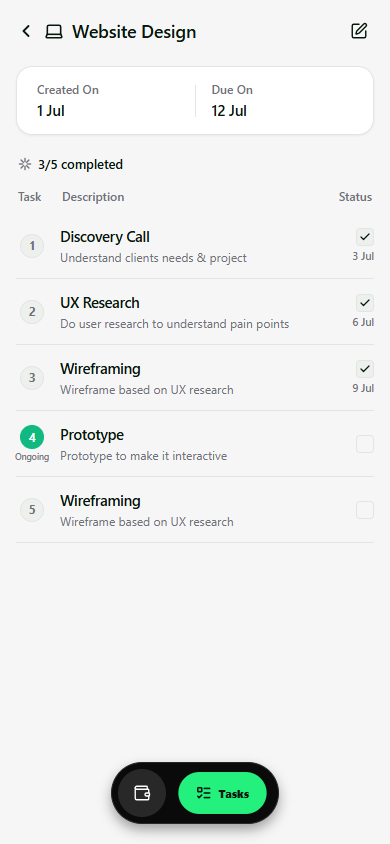
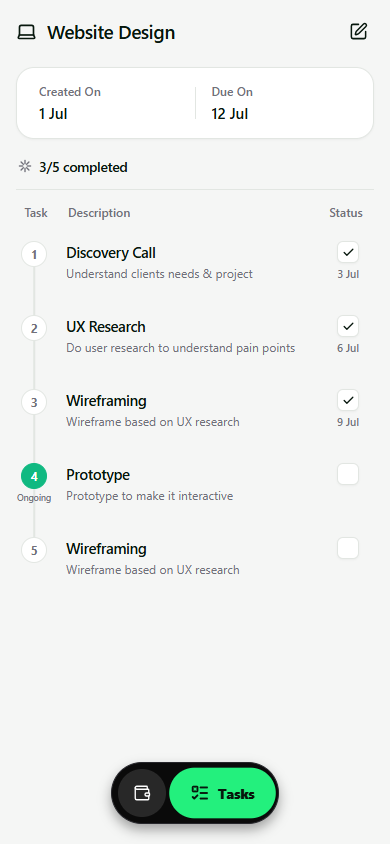
fix(mobile): match section 4 project detail view to mockup with vertical timeline and clean layout

diff --git a/mobile/src/screens/TaskManagerScreen.tsx b/mobile/src/screens/TaskManagerScreen.tsx
@@ -265,15 +265,14 @@ export const TaskManagerScreen: React.FC<TaskManagerScreenProps> = ({
         contentContainerStyle={styles.contentContainer}
         showsVerticalScrollIndicator={false}
       >
-        {/* Detail Top Bar: Back / Laptop icon + "Website Design" & Edit Icon */}
+        {/* Detail Top Bar: [Laptop] "Website Design" & Edit Icon */}
         <View style={styles.detailHeaderRow}>
           <TouchableOpacity
             activeOpacity={0.7}
             onPress={() => setCurrentView('overview')}
             style={styles.detailHeaderTitleGroup}
           >
-            <ChevronLeft size={20} color={theme.textMain} strokeWidth={2.2} />
-            <Laptop size={20} color={theme.textMain} strokeWidth={1.9} />
+            <Laptop size={21} color={theme.textMain} strokeWidth={1.9} />
             <Text style={[styles.detailHeaderTitleText, { color: theme.textMain }]}>
               Website Design
             </Text>
@@ -283,7 +282,7 @@ export const TaskManagerScreen: React.FC<TaskManagerScreenProps> = ({
             activeOpacity={0.7}
             style={styles.detailEditButton}
           >
-            <SquarePen size={18} color={theme.textMain} strokeWidth={1.9} />
+            <SquarePen size={19} color={theme.textMain} strokeWidth={1.9} />
           </TouchableOpacity>
         </View>
 
@@ -318,26 +317,49 @@ export const TaskManagerScreen: React.FC<TaskManagerScreenProps> = ({
           </Text>
         </View>
 
+        {/* Full-width Divider Line between status summary and table */}
+        <View style={[styles.detailSectionDivider, { backgroundColor: theme.borderSubtle }]} />
+
         {/* Tasks Table Header: Task | Description | Status */}
         <View style={styles.tableHeaderRow}>
-          <Text style={[styles.tableColTaskHeader, { color: theme.textDim }]}>Task</Text>
-          <Text style={[styles.tableColDescHeader, { color: theme.textDim }]}>Description</Text>
-          <Text style={[styles.tableColStatusHeader, { color: theme.textDim }]}>Status</Text>
+          <View style={styles.tableColTaskHeader}>
+            <Text style={[styles.tableColHeaderText, { color: theme.textDim }]}>Task</Text>
+          </View>
+          <View style={styles.tableColDescHeader}>
+            <Text style={[styles.tableColHeaderText, { color: theme.textDim }]}>Description</Text>
+          </View>
+          <View style={styles.tableColStatusHeader}>
+            <Text style={[styles.tableColHeaderText, { color: theme.textDim }]}>Status</Text>
+          </View>
         </View>
 
-        {/* Tasks Checklist Rows */}
+        {/* Tasks Checklist Rows with Continuous Vertical Timeline Spine */}
         <View style={styles.detailTasksContainer}>
-          {DETAIL_PROJECT_TASKS.map((task) => {
+          {DETAIL_PROJECT_TASKS.map((task, index) => {
+            const isFirst = index === 0;
+            const isLast = index === DETAIL_PROJECT_TASKS.length - 1;
+
             return (
               <View
                 key={task.id}
-                style={[
-                  styles.detailTaskRow,
-                  { borderBottomColor: theme.borderSubtle },
-                ]}
+                style={styles.detailTaskRow}
               >
-                {/* Column 1: Number Circle Badge + Optional "Ongoing" */}
+                {/* Column 1: Number Stepper with Continuous Vertical Line */}
                 <View style={styles.taskNumColumn}>
+                  {/* Vertical Timeline Spine Line (continuous through circle center) */}
+                  <View
+                    style={[
+                      styles.timelineSpine,
+                      {
+                        backgroundColor: theme.borderSubtle,
+                        top: isFirst ? 13 : -11,
+                        bottom: isLast ? undefined : -11,
+                        height: isLast ? 24 : undefined,
+                      },
+                    ]}
+                  />
+
+                  {/* Stepper Circle */}
                   <View
                     style={[
                       styles.taskNumCircle,
@@ -347,7 +369,7 @@ export const TaskManagerScreen: React.FC<TaskManagerScreenProps> = ({
                             borderColor: theme.isDark ? '#23F07D' : '#10B981',
                           }
                         : {
-                            backgroundColor: theme.surfaceSubtle,
+                            backgroundColor: theme.surface,
                             borderColor: theme.borderSubtle,
                           },
                     ]}
@@ -365,6 +387,8 @@ export const TaskManagerScreen: React.FC<TaskManagerScreenProps> = ({
                       {task.num}
                     </Text>
                   </View>
+
+                  {/* Optional "Ongoing" badge below the active circle */}
                   {task.isOngoing && (
                     <Text style={[styles.ongoingLabel, { color: theme.textDim }]}>
                       Ongoing
@@ -388,21 +412,19 @@ export const TaskManagerScreen: React.FC<TaskManagerScreenProps> = ({
                   </Text>
                 </View>
 
-                {/* Column 3: Checkbox & Date */}
+                {/* Column 3: Checkbox & Date centered */}
                 <View style={styles.taskStatusColumn}>
                   <View
                     style={[
                       styles.detailCheckbox,
                       {
                         borderColor: theme.borderSubtle,
-                        backgroundColor: task.isDone
-                          ? theme.surfaceSubtle
-                          : 'transparent',
+                        backgroundColor: theme.surface,
                       },
                     ]}
                   >
                     {task.isDone && (
-                      <Check size={12} color={theme.textMain} strokeWidth={2.4} />
+                      <Check size={13} color={theme.textMain} strokeWidth={2.4} />
                     )}
                   </View>
                   {task.date ? (
@@ -972,10 +994,10 @@ const styles = StyleSheet.create({
   detailHeaderTitleGroup: {
     flexDirection: 'row',
     alignItems: 'center',
-    gap: 8,
+    gap: 10,
   },
   detailHeaderTitleText: {
-    fontSize: 18,
+    fontSize: 18.5,
     fontWeight: '600',
     letterSpacing: -0.2,
   },
@@ -988,14 +1010,14 @@ const styles = StyleSheet.create({
     flexDirection: 'row',
     alignItems: 'center',
     justifyContent: 'space-between',
-    borderRadius: 16,
+    borderRadius: 18,
     borderWidth: 1,
-    paddingVertical: 14,
-    paddingHorizontal: 20,
-    marginBottom: 20,
+    paddingVertical: 15,
+    paddingHorizontal: 22,
+    marginBottom: 18,
     shadowColor: '#000000',
     shadowOffset: { width: 0, height: 1 },
-    shadowOpacity: 0.05,
+    shadowOpacity: 0.04,
     shadowRadius: 2,
     elevation: 1,
   },
@@ -1005,10 +1027,10 @@ const styles = StyleSheet.create({
   dateBannerLabel: {
     fontSize: 12,
     fontWeight: '500',
-    marginBottom: 3,
+    marginBottom: 4,
   },
   dateBannerValue: {
-    fontSize: 14.5,
+    fontSize: 15,
     fontWeight: '600',
     letterSpacing: -0.1,
   },
@@ -1020,14 +1042,18 @@ const styles = StyleSheet.create({
   detailStatusRow: {
     flexDirection: 'row',
     alignItems: 'center',
-    gap: 6,
-    marginBottom: 16,
+    gap: 7,
     paddingHorizontal: 2,
   },
   detailStatusText: {
-    fontSize: 13,
+    fontSize: 13.5,
     fontWeight: '600',
     letterSpacing: -0.1,
+  },
+  detailSectionDivider: {
+    width: '100%',
+    height: 1,
+    marginVertical: 14,
   },
   tableHeaderRow: {
     flexDirection: 'row',
@@ -1035,47 +1061,55 @@ const styles = StyleSheet.create({
     justifyContent: 'space-between',
     paddingBottom: 8,
     paddingHorizontal: 2,
-    borderBottomWidth: 1,
-    borderBottomColor: 'transparent',
   },
   tableColTaskHeader: {
-    width: 32,
-    fontSize: 12,
-    fontWeight: '500',
+    width: 36,
+    alignItems: 'center',
   },
   tableColDescHeader: {
     flex: 1,
-    marginLeft: 12,
-    fontSize: 12,
-    fontWeight: '500',
+    marginLeft: 14,
   },
   tableColStatusHeader: {
-    width: 50,
-    textAlign: 'right',
+    width: 52,
+    alignItems: 'center',
+  },
+  tableColHeaderText: {
     fontSize: 12,
     fontWeight: '500',
   },
   detailTasksContainer: {
     width: '100%',
+    marginTop: 2,
   },
   detailTaskRow: {
     flexDirection: 'row',
-    alignItems: 'center',
-    paddingVertical: 13,
-    borderBottomWidth: 1,
+    alignItems: 'flex-start',
+    paddingVertical: 11,
+    position: 'relative',
   },
   taskNumColumn: {
-    width: 32,
+    width: 36,
     alignItems: 'center',
-    justifyContent: 'center',
+    justifyContent: 'flex-start',
+    position: 'relative',
+    minHeight: 52,
+  },
+  timelineSpine: {
+    position: 'absolute',
+    left: '50%',
+    width: 1.5,
+    transform: [{ translateX: -0.75 }],
+    zIndex: 1,
   },
   taskNumCircle: {
-    width: 24,
-    height: 24,
-    borderRadius: 12,
-    borderWidth: 1,
+    width: 26,
+    height: 26,
+    borderRadius: 13,
+    borderWidth: 1.2,
     alignItems: 'center',
     justifyContent: 'center',
+    zIndex: 2,
   },
   taskNumText: {
     fontSize: 11.5,
@@ -1084,13 +1118,15 @@ const styles = StyleSheet.create({
   ongoingLabel: {
     fontSize: 8.5,
     fontWeight: '500',
-    marginTop: 2,
+    marginTop: 3,
     textAlign: 'center',
+    zIndex: 2,
   },
   taskDescColumn: {
     flex: 1,
-    marginLeft: 12,
+    marginLeft: 14,
     paddingRight: 8,
+    paddingTop: 1,
   },
   detailTaskTitle: {
     fontSize: 14.5,
@@ -1103,21 +1139,27 @@ const styles = StyleSheet.create({
     lineHeight: 16,
   },
   taskStatusColumn: {
-    width: 50,
-    alignItems: 'flex-end',
-    justifyContent: 'center',
-    gap: 3,
+    width: 52,
+    alignItems: 'center',
+    justifyContent: 'flex-start',
   },
   detailCheckbox: {
-    width: 18,
-    height: 18,
-    borderRadius: 4,
-    borderWidth: 1.5,
+    width: 22,
+    height: 22,
+    borderRadius: 6,
+    borderWidth: 1.2,
     alignItems: 'center',
     justifyContent: 'center',
+    shadowColor: '#000000',
+    shadowOffset: { width: 0, height: 1 },
+    shadowOpacity: 0.04,
+    shadowRadius: 2,
+    elevation: 1,
   },
   detailTaskDate: {
     fontSize: 10.5,
     fontWeight: '500',
+    marginTop: 4,
+    textAlign: 'center',
   },
 });
